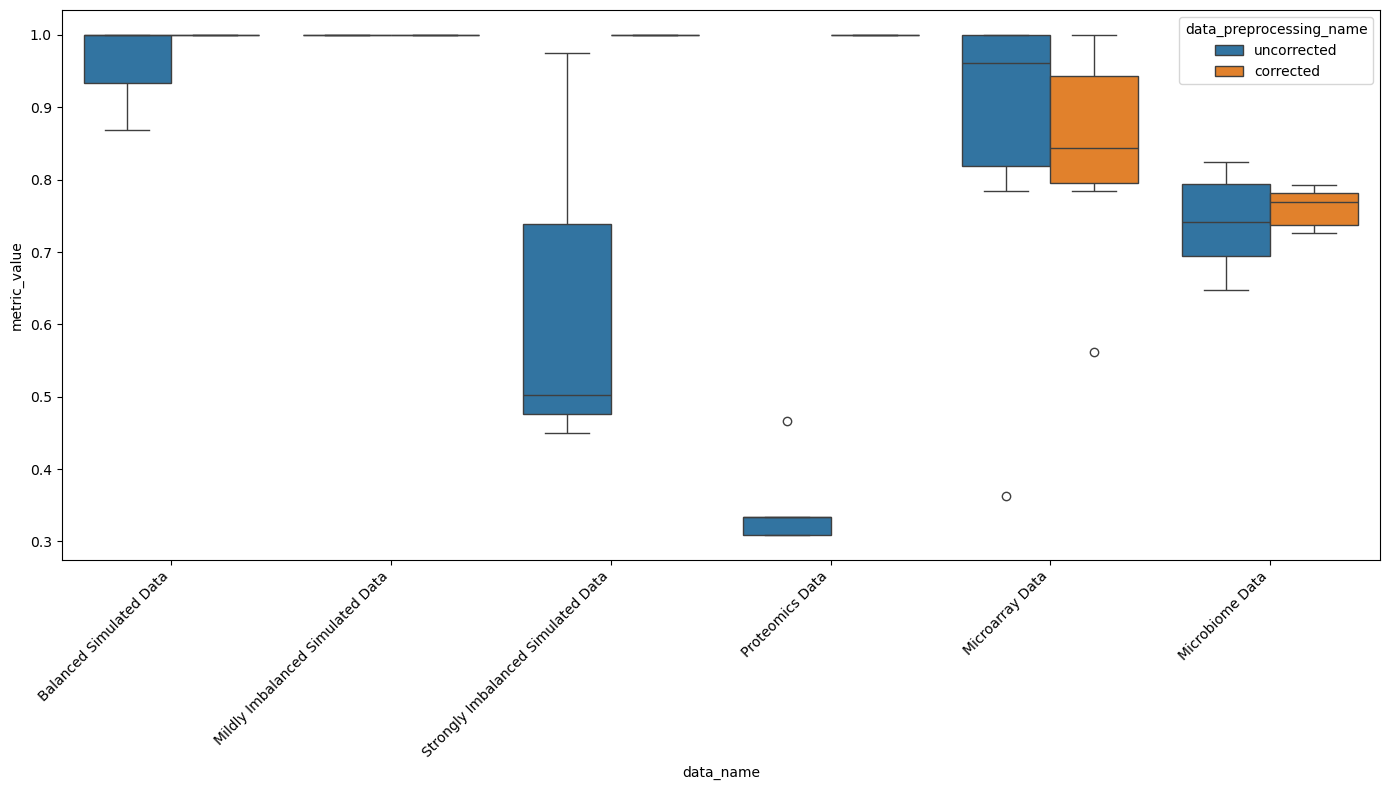
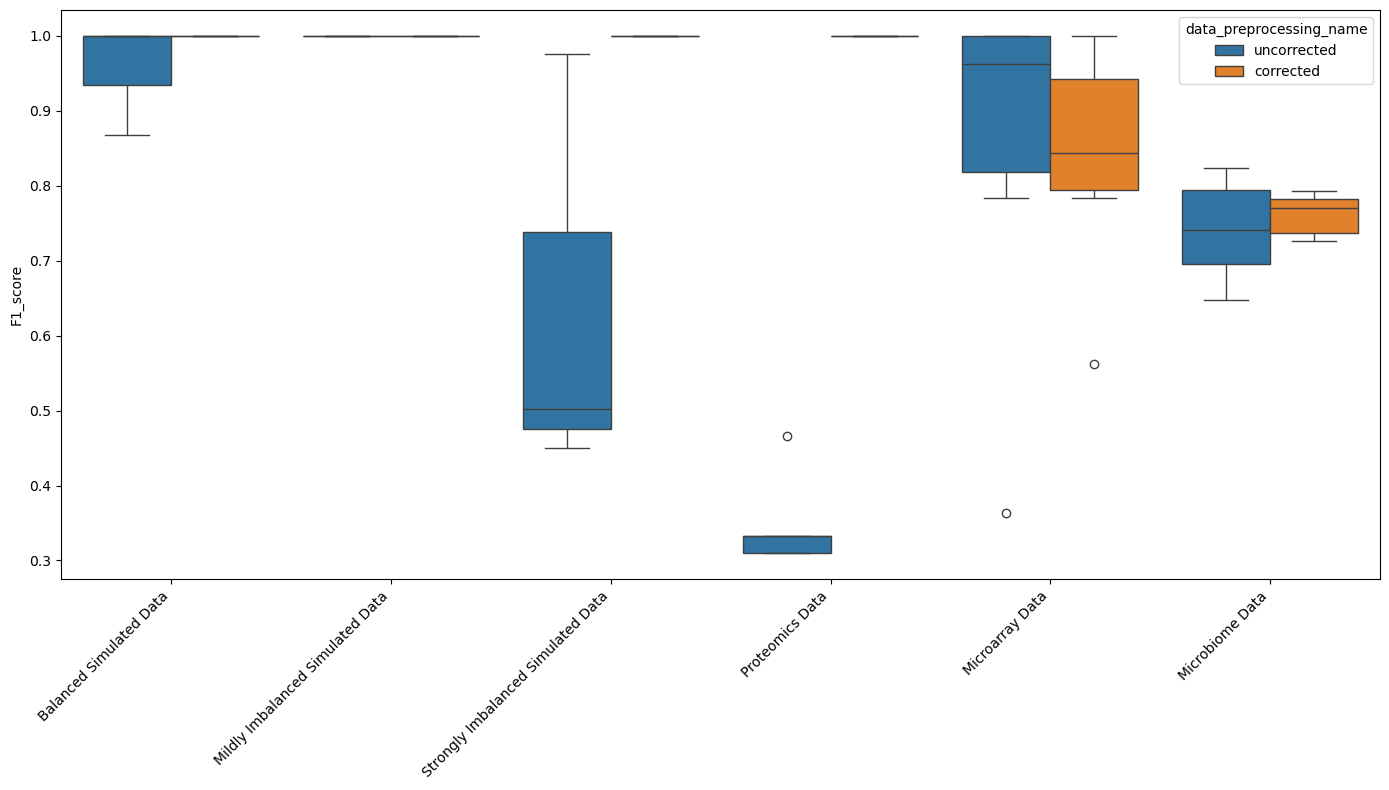
updated plots to contain the metric name on the y axis

diff --git a/evaluation_classification_after_correction/analyse_classification_metric_report.py b/evaluation_classification_after_correction/analyse_classification_metric_report.py
@@ -48,6 +48,8 @@ for metric_name in df['metric_name'].unique():
             y='metric_value',
             hue='data_preprocessing_name',
         )
+        plt.xlabel("")
+        plt.ylabel(metric_name)
         plt.xticks(rotation=45, ha='right')
         plt.tight_layout()
 
@@ -66,6 +68,8 @@ for metric_name in df['metric_name'].unique():
             y='metric_value',
             hue='data_preprocessing_name',
         )
+        plt.xlabel("")
+        plt.ylabel(metric_name)
         plt.xticks(rotation=45, ha='right')
         plt.tight_layout()
 
